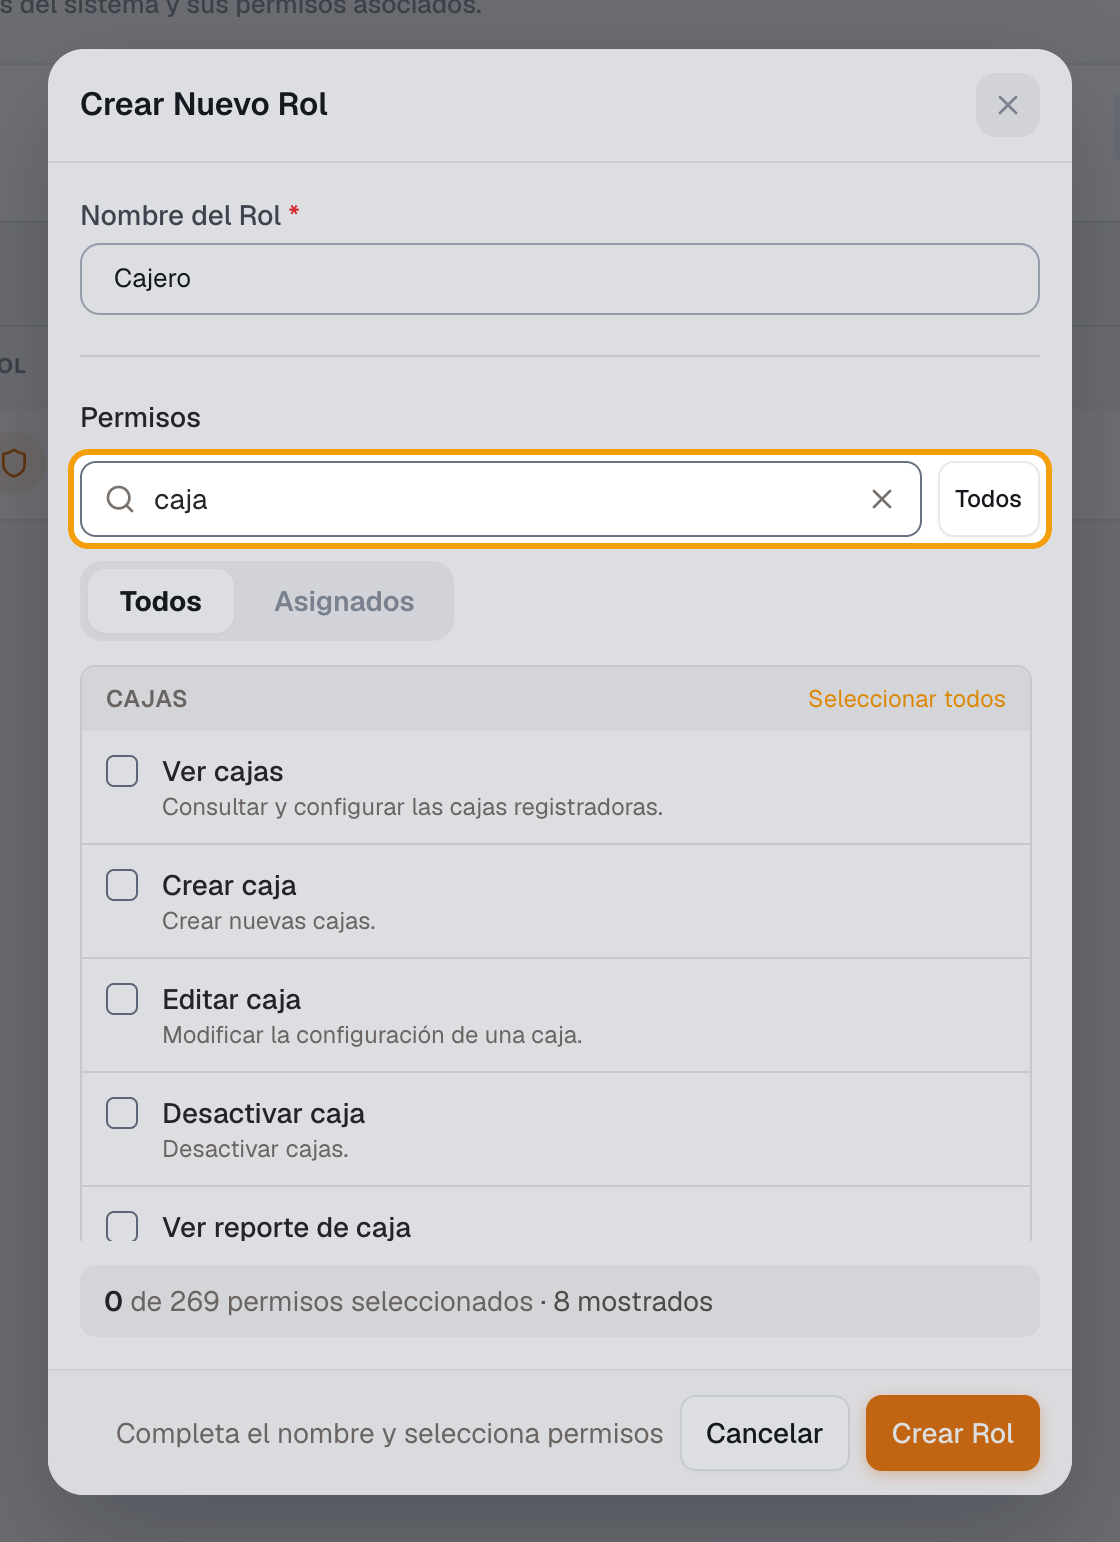
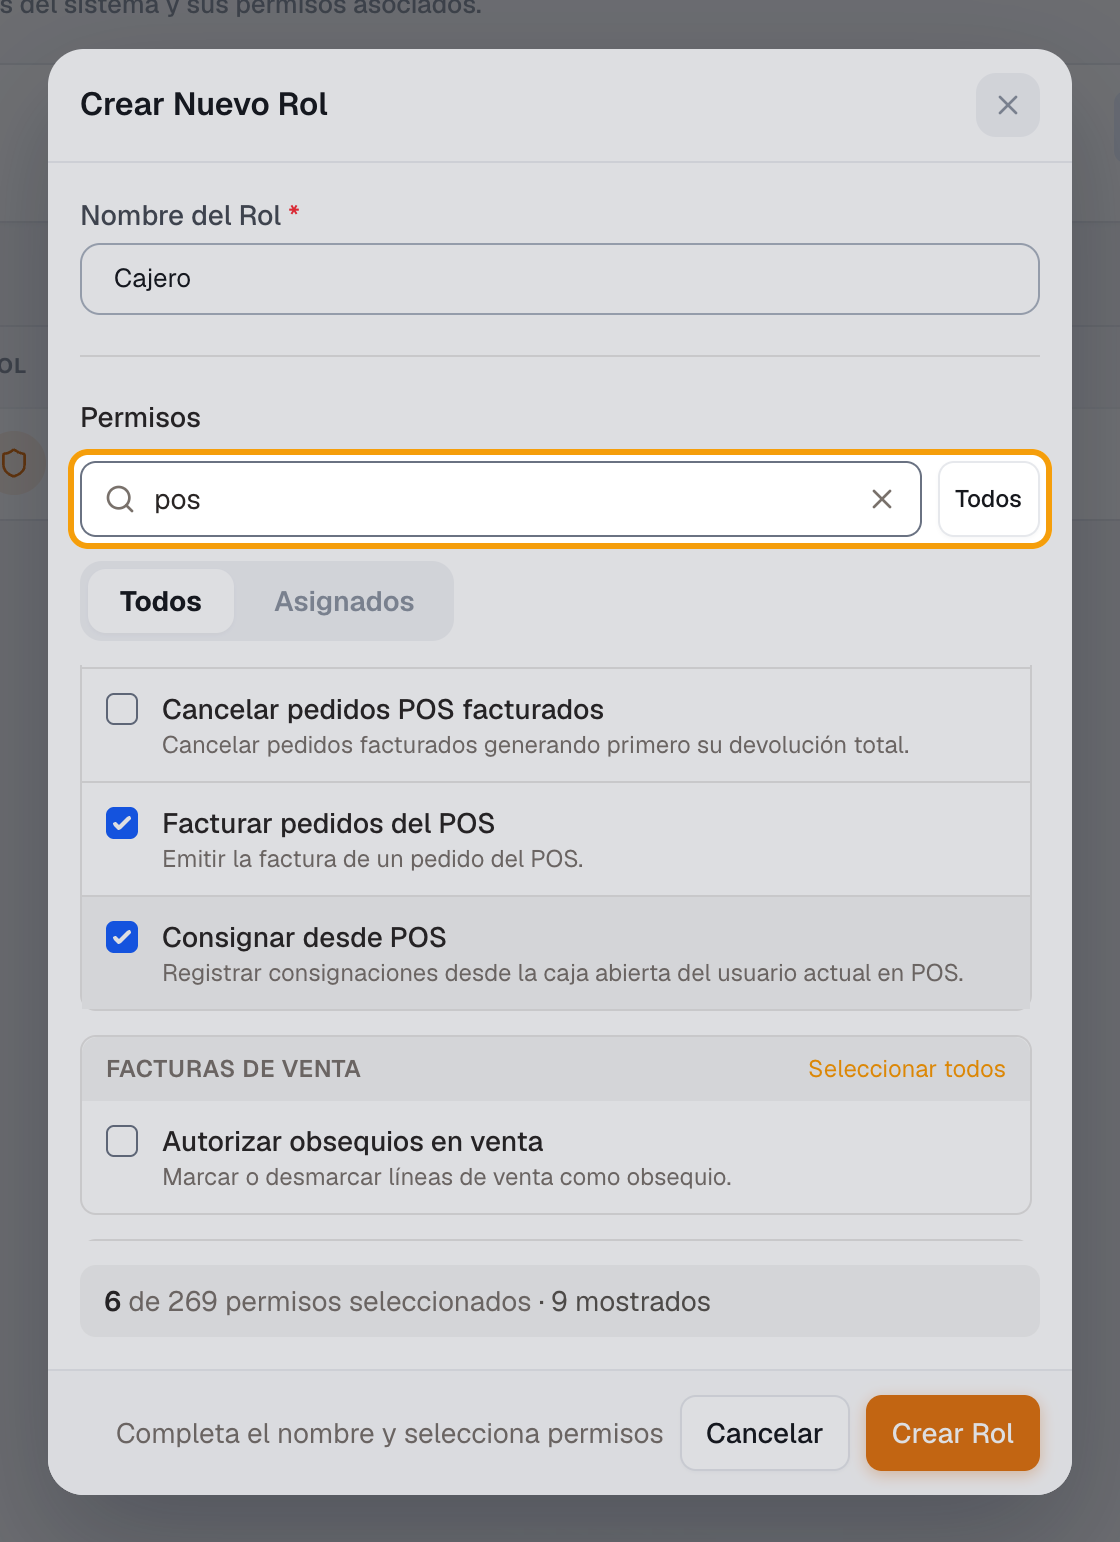
feat: rol Cajero real en la demo

diff --git a/docs/preguntas-frecuentes.md b/docs/preguntas-frecuentes.md
@@ -45,7 +45,7 @@ tags:
     Desde el POS con **Cerrar caja**: escribe el **Efectivo contado**, decide el destino del dinero y confirma. Ver [¿Cómo cierro la caja?](pos/cierre-de-caja.md).
 
 ??? question "¿Un cajero puede usar la caja principal?"
-    Sí. Las cajas no se asignan a personas: cualquier usuario puede abrir cualquier caja **de su sede**, si está **libre** (nadie más la tiene abierta) y él no tiene otra caja abierta. Para vender necesita el permiso **Acceder al POS**. Solo vende en la caja que **él mismo** abrió, y solo quien la abrió puede cerrarla. Ver [¿Cómo abro la caja?](pos/abrir-caja.md).
+    Sí. Las cajas no se asignan a personas: cualquier usuario puede abrir cualquier caja **de su sede**, si está **libre** (nadie más la tiene abierta) y él no tiene otra caja abierta. Para vender necesita el permiso **Acceder al POS**. Solo vende en la caja que **él mismo** abrió, y solo quien la abrió puede cerrarla. El permiso **Usar caja de otro usuario** solo sirve para registrar ingresos y egresos en efectivo (Tesorería) sobre la caja abierta de otra persona de la misma sede; no sirve para vender en el POS. Ver [¿Cómo abro la caja?](pos/abrir-caja.md).
 
 ??? question "Cerré la caja con un valor equivocado, ¿qué hago?"
     Un supervisor puede usar **Corregir arqueo** o **Reabrir cierre** en <span class="ruta">Tesorería › Caja › Sesiones</span>.

diff --git a/docs/primeros-pasos/roles-y-permisos.md b/docs/primeros-pasos/roles-y-permisos.md
@@ -7,7 +7,7 @@ modulo: primeros-pasos
 menu: "Configuración › Roles y Permisos"
 permisos:
   - Gestionar permisos
-revisado: 2026-09-30
+revisado: 2026-10-01
 tags:
   - Usuarios
   - Permisos
@@ -31,15 +31,18 @@ tags:
 
 ![Paso 3: nombre del rol](../assets/capturas/primeros-pasos/roles-y-permisos/paso-3.png)
 
-**Paso 4.** Busca con **Buscar permisos...** y marca los permisos que necesita.
+**Paso 4.** Escribe en **Buscar permisos...** (ej. *caja*, *pos*) y marca los permisos que necesita. Abajo ves cuántos llevas seleccionados.
 
 ![Paso 4: lista de permisos](../assets/capturas/primeros-pasos/roles-y-permisos/paso-4.png)
 
-**Paso 5.** Haz clic en **Crear Rol**.
+**Paso 5.** Haz clic en **Crear Rol**. El rol aparece en la lista con su número de permisos.
 
 ![Paso 5: botón Crear Rol](../assets/capturas/primeros-pasos/roles-y-permisos/paso-5.png)
 
 ✅ **Listo:** asigna el rol a los usuarios en <span class="ruta">Configuración › Usuarios</span>. Para cambiar permisos después: acciones del rol › **Gestionar permisos**.
+
+!!! tip "Permisos de un cajero"
+    **Acceder al POS**, **Ver pedidos del POS**, **Gestionar pedidos del POS**, **Facturar pedidos del POS**, **Ver cajas** y **Consignar desde POS**.
 
 ## Si algo falla
 

diff --git a/gestion/capturas-reporte.md b/gestion/capturas-reporte.md
@@ -1,5 +1,5 @@
 # Reporte de capturas
 
-> Generado por `npm run capturas` el 1/10/2026, 4:53:02 p. m.. Ambiente: https://erp.cosmox.tech
+> Generado por `npm run capturas` el 1/10/2026, 4:55:10 p. m.. Ambiente: https://erp.cosmox.tech
 
-**2** capturas tomadas · **0** fallas · **49** imágenes siguen pendientes.
+**5** capturas tomadas · **0** fallas · **49** imágenes siguen pendientes.
